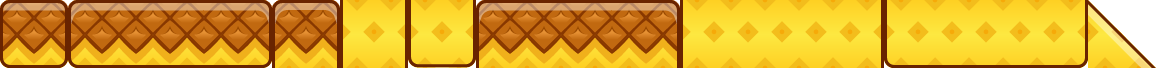
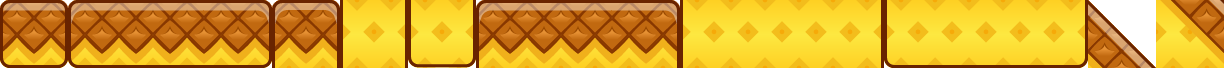
Rampe del mondo 1 con la buccia e terra sotto la rampa

diff --git a/game.js b/game.js
@@ -47,7 +47,7 @@ const PX_PAV=16,PX_FONDO=17;
 function px(c,i,x,y,w,h,capo,meta){if(!PIXEL.complete)return;const s=c.imageSmoothingEnabled;c.imageSmoothingEnabled=false;
  if(capo){c.save();c.translate(x,y+h);c.scale(1,-1);c.drawImage(PIXEL,i*18,0,18,meta?9:18,0,0,w,meta?h/2:h);c.restore();}else c.drawImage(PIXEL,i*18,0,18,18,x,y,w,h);c.imageSmoothingEnabled=s;}
 /* il terreno del mondo 1 è il paesaggio ananas dell'utente: caselle da 68 nello stesso ordine di PIX, l'ultima è la rampa che scende */
-const PAES=new Image();PAES.src='assets/paesaggio.webp';const PAES_RAMPA=16;
+const PAES=new Image();PAES.src='assets/paesaggio.webp';const PAES_RAMPA=16,PAES_SOTTO=17; /* 17: la terra sotto una rampa a scalini, con la buccia della rampa dopo nell'angolo */
 function paes(c,i,x,y,w,h,flip){const s=c.imageSmoothingEnabled;c.imageSmoothingEnabled=false;if(flip){c.save();c.translate(x+w,y);c.scale(-1,1);c.drawImage(PAES,i*68,0,68,68,0,0,w,h);c.restore();}else c.drawImage(PAES,i*68,0,68,68,x,y,w,h);c.imageSmoothingEnabled=s;}
 function sp(c,n,x,y,w,h,flip){if(n.startsWith('terrain_sand_')&&PAES.complete){const t=n.slice(13);if(t==='ramp_short_b'){paes(c,PAES_RAMPA,x,y,w,h,flip);return;}if(t in PIX){paes(c,PIX[t],x,y,w,h);return;}}
  const q=KMAP[n],im=q&&q[2]?KIT2:KIT;if(!q||!im.complete)return;if(flip){c.save();c.translate(x+w,y);c.scale(-1,1);c.drawImage(im,q[0],q[1],96,96,0,0,w,h);c.restore();}else c.drawImage(im,q[0],q[1],96,96,x,y,w,h);}
@@ -514,7 +514,7 @@ function disegna2d(){
  for(let y=Math.max(y0,-20);y<=y1;y++)for(let x=c0;x<=c1;x++){const a=sx(x)-ts/2,b=sy(y)-ts/2;
   if(y<=0&&cel(x,0)!=='#'){if(M.boss&&(x<0||x>=M.w))continue;sp(c,m.liquido+(y===0?(lento?'_top':'_top_low'):''),a,b,mz,mz);continue;}
   const t=y<0?'#':cel(x,y);if(t===' ')continue;
-  if(t==='#')sp(c,nomeTile(x,y,k),a,b,mz,mz);
+  if(t==='#'){const r=cel(x,y+1);if(k==='sand'&&PAES.complete&&((r==='%'&&'%#'.includes(cel(x+1,y)))||(r==='/'&&'/#'.includes(cel(x-1,y)))))paes(c,PAES_SOTTO,a,b,mz,mz,r==='/');else sp(c,nomeTile(x,y,k),a,b,mz,mz);}
   else if(t==='C')sp(c,'block_exclamation',a,b,mz,mz);
   else if(t==='D')sp(c,'lock_blue',a,b,mz,mz);
   else if(t==='X')sp(c,'bricks_brown',a,b,mz,mz);

diff --git a/CLAUDE.md b/CLAUDE.md
@@ -6,12 +6,12 @@ Gioco per browser pensato per il telefono in orizzontale, pubblicato con GitHub 
 - `index.html`: solo il markup delle schermate (menu, guida, amici e skin, pausa, fine, HUD).
 - `style.css`: lo stile, con i colori come variabili su `:root`.
 - `game.js`: tutta la logica, in un unico script classico chiuso in una funzione e diviso in sezioni `/* ---------- NOME ---------- */`: orientamento, salvataggio, mondi e tappe, kit grafico e sonoro, skin, palla dipinta, audio, stato, comandi, cuori, corsa 2D, boss 2D, la bomba, guida, flusso, menu, ciclo.
-- `assets/`: `kit.webp` (atlante dei blocchi Kenney, coordinate in `KMAP`), `personaggio.webp`, `personaggio2.webp` e `personaggio3.webp` (fogli delle animazioni di Matteo; il terzo è Matteo stanco, con le stesse celle da 200 del secondo), `fumo.webp`, `polvere.webp`, `esplosione.webp`, `pizza.webp`, `kit2.webp` (altri pezzi del kit), `nemico_ananas.webp` (l'ananas arrabbiato dal foglio "Pineapple Tiles" CC0 dell'utente, nemico del mondo 1; degli altri pezzi di quel foglio l'utente non vuole niente, né per il terreno né per le grotte; il terreno ananas di `paesaggio.webp` è un'altra serie, che invece gli va bene), `paesaggio.webp` (terreno del mondo 1: buccia e polpa d'ananas disegnate dall'utente, caselle da 68 nello stesso ordine di `PIX`, l'ultima è la rampa; i pezzi singoli stanno in `paesaggio/`), `pixel.webp` (caselle da 18: terra del kit Farm Expansion per le grotte), `bomba.webp` (Matteo carico al massimo: 37 fotogrammi da 160 in righe da 10, mappa in `disegnaBomba`), `boss_ananas.webp` (Ananassone: fotogrammi da 192x204 in righe da 8, 32-34 stordito, mappa in `disegnaAnanas` e `disegnaBoss`; gli altri due boss sono ancora disegnati nel codice in `BOSPR`), `fondi/*.webp`, `suoni/*.mp3`.
+- `assets/`: `kit.webp` (atlante dei blocchi Kenney, coordinate in `KMAP`), `personaggio.webp`, `personaggio2.webp` e `personaggio3.webp` (fogli delle animazioni di Matteo; il terzo è Matteo stanco, con le stesse celle da 200 del secondo), `fumo.webp`, `polvere.webp`, `esplosione.webp`, `pizza.webp`, `kit2.webp` (altri pezzi del kit), `nemico_ananas.webp` (l'ananas arrabbiato dal foglio "Pineapple Tiles" CC0 dell'utente, nemico del mondo 1; degli altri pezzi di quel foglio l'utente non vuole niente, né per il terreno né per le grotte; il terreno ananas di `paesaggio.webp` è un'altra serie, che invece gli va bene), `paesaggio.webp` (terreno del mondo 1: buccia e polpa d'ananas disegnate dall'utente, caselle da 68 nello stesso ordine di `PIX`, poi la rampa (`sprite-20.png`) e la terra sotto la rampa (`paesaggio.png`); i pezzi singoli stanno in `paesaggio/`), `pixel.webp` (caselle da 18: terra del kit Farm Expansion per le grotte), `bomba.webp` (Matteo carico al massimo: 37 fotogrammi da 160 in righe da 10, mappa in `disegnaBomba`), `boss_ananas.webp` (Ananassone: fotogrammi da 192x204 in righe da 8, 32-34 stordito, mappa in `disegnaAnanas` e `disegnaBoss`; gli altri due boss sono ancora disegnati nel codice in `BOSPR`), `fondi/*.webp`, `suoni/*.mp3`.
 - `tools/build.py`: ricompone tutto in `dist/cicciobomba.html`, un file unico con le risorse dentro, che si apre con un doppio clic. `dist/` è generata ed esclusa da git: non modificarla a mano.
 
 ## Regole
 - Testi, nomi di variabili e commenti in italiano. Il codice è compatto (righe lunghe, nomi brevi): mantieni lo stesso stile.
-- Grafica e suoni solo CC0 (Kenney: New Platformer Pack, Pixel Platformer, Pixel Platformer Farm Expansion) o disegnati nel codice. Il terreno del mondo 1 è il paesaggio ananas dell'utente: `sp()` disegna i nomi `terrain_sand_*` con le caselle di `paesaggio.webp` (indici di `PIX`, funzione `paes`), senza smussare i pixel. La rampa è una sola, che scende verso destra: quella che sale è la stessa capovolta. Le rampe non hanno la buccia: l'utente le lascia così per ora. Un nuovo asset va in `assets/` e si richiama con un percorso scritto per intero tra apici (`'assets/...'`), altrimenti `build.py` non lo mette nel file unico.
+- Grafica e suoni solo CC0 (Kenney: New Platformer Pack, Pixel Platformer, Pixel Platformer Farm Expansion) o disegnati nel codice. Il terreno del mondo 1 è il paesaggio ananas dell'utente: `sp()` disegna i nomi `terrain_sand_*` con le caselle di `paesaggio.webp` (indici di `PIX`, funzione `paes`), senza smussare i pixel. La rampa è una sola, che scende verso destra: quella che sale è la stessa capovolta. Sotto una rampa, se a lato c'è un'altra rampa o il piano, va la casella `PAES_SOTTO`, che porta nell'angolo la buccia della rampa dopo: così la buccia scende continua. Un nuovo asset va in `assets/` e si richiama con un percorso scritto per intero tra apici (`'assets/...'`), altrimenti `build.py` non lo mette nel file unico.
 - Il salvataggio sta nel `localStorage` con chiave `rotolamici-v1`. Se cambi la struttura di `S`, gestisci i salvataggi vecchi.
 - `VITE_INFINITE` in `game.js` è un'impostazione per le prove: con `true` non si perdono cuori. Va lasciata `false`.
 - Quello che va su `main` finisce subito online su GitHub Pages: si pubblica solo dopo averlo provato.
